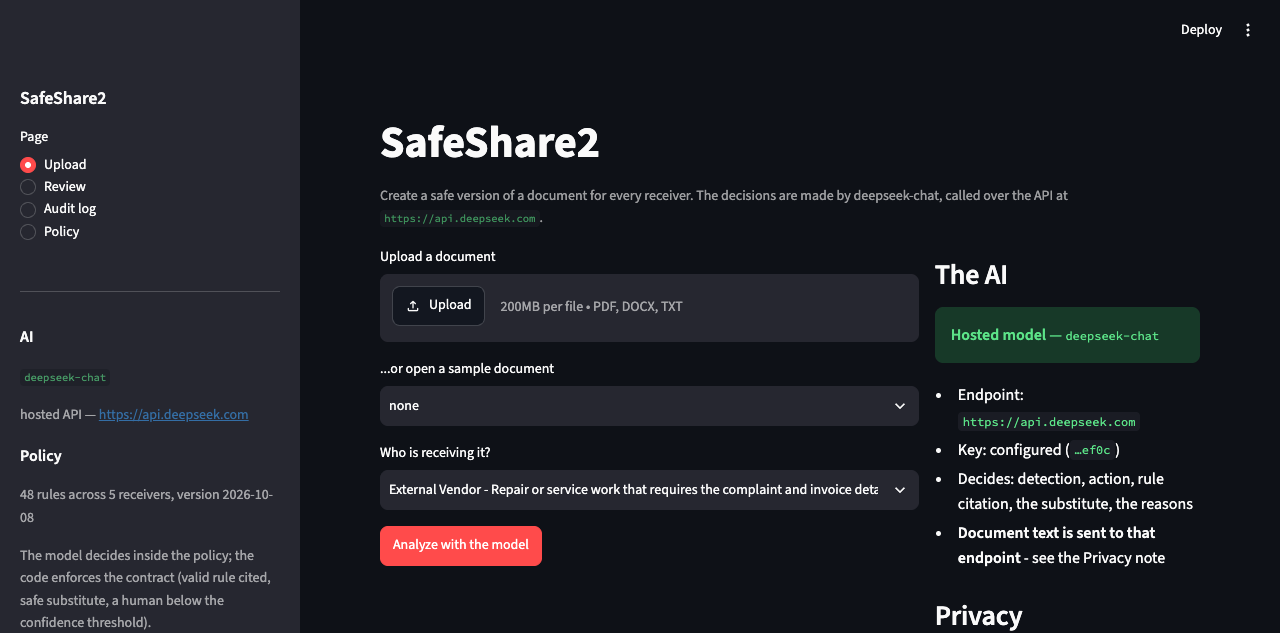
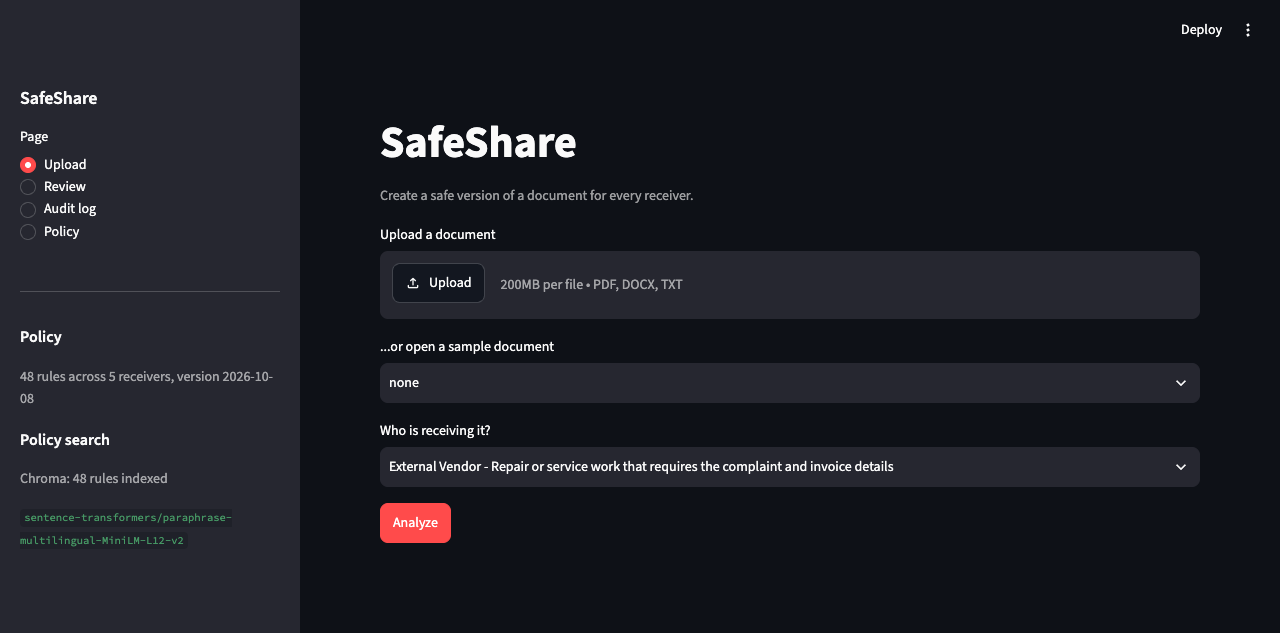
Rename to SafeShare, simplify the copy, drop the AI and Privacy panels
Three presentation changes requested for the demo:

- the product is now named SafeShare everywhere a person sees it: dashboard title,
  browser tab, sidebar, API title, help text and error messages. Lowercase
  `safeshare2` stays only where it is a folder, module or file name.
- every user-visible description is now the single line "Create a safe version of a
  document for every receiver." The old caption named the model and its endpoint, and
  the sidebar stated that the model decides inside the policy. Both are gone from the
  interface: the product reads as a product, not as a description of its machinery.
  The button is now "Analyze" rather than "Analyze with the model".
- the right-hand panel (subheadings "The AI" and "Privacy") is removed, along with the
  `model_panel()` function that fed it and the sidebar's AI block. The upload page is a
  single column.

Nothing was lost: the facts those panels carried (which model answers, what leaves the
machine, where uploads go, what the audit log keeps) are recorded in docs/AI.md under
"What the dashboard no longer shows", which is also the honest answer to an assessor
who asks.

Verified after the change: 38/38 tests pass, the dashboard renders with the new title
and caption and no panel, and the browser tab reads SafeShare.

diff --git a/app/ui_streamlit.py b/app/ui_streamlit.py
@@ -1,4 +1,4 @@
-"""SafeShare2 - the dashboard.
+"""SafeShare - the dashboard.
 
     streamlit run app/ui_streamlit.py
 
@@ -161,97 +161,36 @@ def badge(text: str, action: str) -> str:
             f"border-radius:10px;font-size:0.78rem;font-weight:600'>{html.escape(text)}</span>")
 
 
-def model_panel(state: dict) -> None:
-    """Everything a reader needs to know about the AI in this build, in one place."""
-    if not state["installed"]:
-        st.error("**The model is not reachable - analysis is unavailable.**")
-        if state.get("provider") == "api":
-            st.markdown(
-                "This build has no rules-only fallback: the AI is what decides. Put the "
-                "key for the hosted model in `.env` at the project root:")
-            st.code("DEEPSEEK_API_KEY=<your key>", language="bash")
-            st.caption("Or run the model on this machine instead: "
-                       "`SAFESHARE2_PROVIDER=local`.")
-            return
-        st.markdown(
-            "This build has no rules-only fallback: the AI is what decides. Install it "
-            "once (about 6 GB, kept in your Hugging Face cache):")
-        st.code("python -m scripts.setup_model", language="bash")
-        if state["partial"]:
-            st.warning("An interrupted download is present and will be resumed: "
-                       f"missing {', '.join(state['missing_files']) or 'weights'}.")
-        return
-
-    if state.get("provider") == "api":
-        st.success(f"**Hosted model** — `{state['model']}`")
-        st.markdown(
-            f"- Endpoint: `{state.get('base_url', '')}`\n"
-            f"- Key: configured (`{state.get('api_key_hint', '')}`)\n"
-            f"- Decides: detection, action, rule citation, the substitute, the reasons\n"
-            f"- **Document text is sent to that endpoint** - see the Privacy note")
-        return
-
-    st.success(f"**Model installed** — `{state['model']}`")
-    st.markdown(
-        f"- Device: `{state.get('device', '?')}`   dtype: `{state.get('dtype', '?')}`\n"
-        f"- On disk: {state['size_gb']:.2f} GB in `{state['cache_dir']}`\n"
-        f"- Decides: detection, action, rule citation, the substitute, the reasons\n"
-        f"- Runs locally: no document text leaves this machine")
-
-
 # ------------------------------------------------------------------ page 1: upload
 
 
 def page_upload() -> None:
-    st.title("SafeShare2")
+    st.title("SafeShare")
     lib = default_library()
     state = engine.status()
-    st.caption("Create a safe version of a document for every receiver. "
-               f"The decisions are made by {state.get('model') or engine.active_model()}"
-               + (", running locally."
-                  if state.get("provider") == "local"
-                  else f", called over the API at `{state.get('base_url', '')}`."))
+    st.caption("Create a safe version of a document for every receiver.")
 
-    left, right = st.columns([2, 1])
+    upload = st.file_uploader("Upload a document", type=["pdf", "docx", "txt"])
+    samples = sorted(SAMPLE_DIR.glob("*.docx")) + sorted(SAMPLE_DIR.glob("*.txt"))
+    sample = st.selectbox("...or open a sample document",
+                          ["none"] + [p.name for p in samples])
 
-    with left:
-        upload = st.file_uploader("Upload a document", type=["pdf", "docx", "txt"])
-        samples = sorted(SAMPLE_DIR.glob("*.docx")) + sorted(SAMPLE_DIR.glob("*.txt"))
-        sample = st.selectbox("...or open a sample document",
-                              ["none"] + [p.name for p in samples])
-
-        receiver_keys = list(lib.receivers)
-        default = "EXTERNAL_VENDOR" if "EXTERNAL_VENDOR" in receiver_keys else receiver_keys[0]
-        receiver = st.selectbox(
-            "Who is receiving it?", receiver_keys,
-            index=receiver_keys.index(default),
-            format_func=lambda key: f"{lib.receivers[key].label} - {lib.receivers[key].purpose}")
-        # The purpose is part of the prompt the model reads and it is stored with the audit
-        # record, but asking for it here duplicated the receiver (the dropdown above states
-        # it), so it comes from the receiver itself.
-        purpose = lib.receivers[receiver].purpose
-        go = st.button("Analyze with the model", type="primary",
-                       disabled=not state["installed"])
-
-    with right:
-        st.subheader("The AI")
-        model_panel(state)
-        st.subheader("Privacy")
-        st.markdown(
-            f"- Temporary files: `{config.TMP_DIR}`\n"
-            f"- Deleted after reading: **{'no' if config.KEEP_UPLOADS else 'yes'}**\n"
-            f"- Documents sent to an external API: "
-            f"**{'yes — ' + state.get('base_url', '') if state.get('provider') == 'api' else 'no'}**\n"
-            f"- Audit log: masked values, hashes, and model call metadata only\n"
-            f"- Policy version: `{lib.version}`")
+    receiver_keys = list(lib.receivers)
+    default = "EXTERNAL_VENDOR" if "EXTERNAL_VENDOR" in receiver_keys else receiver_keys[0]
+    receiver = st.selectbox(
+        "Who is receiving it?", receiver_keys,
+        index=receiver_keys.index(default),
+        format_func=lambda key: f"{lib.receivers[key].label} - {lib.receivers[key].purpose}")
+    # The purpose is stored with the audit record, so a release can be justified later.
+    purpose = lib.receivers[receiver].purpose
+    go = st.button("Analyze", type="primary", disabled=not state["installed"])
 
     if not state["installed"]:
         st.divider()
-        st.info("Set up the model, then reload this page — the Analyze button appears "
-                "when the AI is ready."
-                + (" Put `DEEPSEEK_API_KEY` in `.env`."
+        st.info("SafeShare is not configured yet — the Analyze button appears once it is."
+                + (" Add your API key to `.env` and reload this page."
                    if state.get("provider") == "api"
-                   else " Run `python -m scripts.setup_model` to install it."))
+                   else " Run `python -m scripts.setup_model`, then reload this page."))
         return
     if not go:
         return
@@ -836,33 +775,20 @@ def policy_history_tab(editor: PolicyEditor) -> None:
 
 
 def main() -> None:
-    st.set_page_config(page_title="SafeShare2", page_icon="🔒", layout="wide")
+    st.set_page_config(page_title="SafeShare", page_icon="🔒", layout="wide")
     lib = default_library()
     state = engine.status()
 
     with st.sidebar:
-        st.markdown("### SafeShare2")
+        st.markdown("### SafeShare")
         pages = ["Upload", "Review", "Audit log", "Policy"]
         page = st.radio("Page", pages,
                         index=pages.index(st.session_state.get("page", "Upload")))
         st.session_state["page"] = page
         st.divider()
-        st.markdown("**AI**")
-        if state["installed"] and state.get("provider") == "api":
-            st.caption(f"`{state['model']}`\n\nhosted API — {state.get('base_url', '')}")
-        elif state["installed"]:
-            st.caption(f"`{state['model']}`\n\n"
-                       f"device `{state.get('device', '?')}` in `{state.get('dtype', '?')}`")
-        elif state.get("provider") == "api":
-            st.caption("no API key — put `DEEPSEEK_API_KEY` in `.env`")
-        else:
-            st.caption("not installed — run `python -m scripts.setup_model`")
         st.markdown("**Policy**")
         st.caption(f"{len(lib.rules)} rules across {len(lib.receivers)} receivers, "
                    f"version {lib.version}")
-        st.caption("The model decides inside the policy; the code enforces the contract "
-                   "(valid rule cited, safe substitute, a human below the confidence "
-                   "threshold).")
         st.markdown("**Policy search**")
         try:
             index_state = get_index().status()

diff --git a/app/llm/engine.py b/app/llm/engine.py
@@ -175,7 +175,7 @@ def ensure_installed() -> dict:
 
     if state.get("provider") == "api":
         raise ModelNotInstalled(
-            f"SafeShare2 is set to use the hosted {config.API_MODEL} API at "
+            f"SafeShare is set to use the hosted {config.API_MODEL} API at "
             f"{config.API_BASE_URL}, but no key is configured. Put one in the `.env` "
             f"file at the project root:\n\n    DEEPSEEK_API_KEY=<your key>\n\n"
             f"or run the local model instead with SAFESHARE2_PROVIDER=local.",
@@ -191,7 +191,7 @@ def ensure_installed() -> dict:
         detail = "no local copy was found"
 
     raise ModelNotInstalled(
-        f"SafeShare2 needs {config.MODEL_NAME} and it is not usable on this machine: "
+        f"SafeShare needs {config.MODEL_NAME} and it is not usable on this machine: "
         f"{detail}. Install it with:\n\n    {SETUP_COMMAND}\n\n"
         f"(downloads once, about 6 GB, into {state['cache_dir']})",
         missing=state["missing_files"])

diff --git a/scripts/setup_model.py b/scripts/setup_model.py
@@ -241,7 +241,7 @@ def install_model(*, assume_yes: bool = False) -> int:
 
 
 def main() -> int:
-    parser = argparse.ArgumentParser(description="Install the SafeShare2 model")
+    parser = argparse.ArgumentParser(description="Install the SafeShare model")
     parser.add_argument("--check", action="store_true", help="report only, no download")
     parser.add_argument("--json", action="store_true", help="print status as JSON")
     parser.add_argument("--xet", action="store_true",

diff --git a/app/main.py b/app/main.py
@@ -36,7 +36,7 @@ from .policy.policy_index import PolicyIndexError, get_index
 from .review.review_queue import apply_review, build_queue, review_state
 from .rules.store import library as default_library
 
-app = FastAPI(title="SafeShare2", version="0.1.0",
+app = FastAPI(title="SafeShare", version="0.1.0",
               description="Create a safe version of a document for each receiver, with "
                           "a local language model making the decisions.")
 

diff --git a/scripts/smoke_test.py b/scripts/smoke_test.py
@@ -283,7 +283,7 @@ def run_api_check(state: dict) -> None:
 
 
 def main() -> int:
-    print("SafeShare2 smoke test")
+    print("SafeShare smoke test")
     state = engine.install_state()
     if not state["installed"]:
         print("\nThe model is not installed yet, so only the parts that do not need it "

diff --git a/app/config.py b/app/config.py
@@ -1,4 +1,4 @@
-"""SafeShare2 - settings.
+"""SafeShare - settings.
 
 The difference from the first prototype, in one line: **the model is mandatory**.
 Here there is no rules-only fallback. Every finding, every action and every

diff --git a/app/__init__.py b/app/__init__.py
@@ -1,1 +1,1 @@
-"""SafeShare2 - purpose-bound document release with a language model at the core."""
+"""SafeShare - purpose-bound document release with a language model at the core."""

diff --git a/tests/test_safeshare2.py b/tests/test_safeshare2.py
@@ -1,4 +1,4 @@
-"""SafeShare2 tests - the contract, not the model.
+"""SafeShare tests - the contract, not the model.
 
     python3 tests/test_safeshare2.py
 

diff --git a/docs/AI.md b/docs/AI.md
@@ -1,4 +1,4 @@
-# The AI in SafeShare2
+# The AI in SafeShare
 
 Everything in this file answers one question: **what is the model actually doing here?**
 
@@ -132,3 +132,31 @@ Every call is recorded with its purpose, tokens out, seconds, device and a promp
 the API exposes it at `/api/audit/model-calls/{run_id}`, and the run row carries the totals.
 That is what makes "the AI is in the loop" a checkable statement rather than a claim: you
 can see which jobs ran, how long they took and how much they produced.
+
+## What the dashboard no longer shows (and why it is still true)
+
+The upload page used to carry two panels — *The AI* and *Privacy* — that stated, on screen,
+which model answers and what happens to a document. They were removed from the interface
+on purpose: the product should be read as a product, not as a description of its own
+machinery. The facts did not change, so they are recorded here instead.
+
+**Which model answers.** `deepseek-chat` over `https://api.deepseek.com` when a key is
+configured; the local `Qwen2.5-3B-Instruct` otherwise. `SAFESHARE2_PROVIDER` decides, and
+`auto` follows whether a key is present.
+
+**What the model is given.** Detection, the action for the chosen receiver, the rule
+citation, the substitute, the reasons, and the audit summary.
+
+**What leaves the machine.** With the API provider, the document text is part of the
+prompt sent to that endpoint. With the local provider, nothing leaves this machine. The
+policy search embeds the *policy*, never a document.
+
+**Where uploaded files go.** To `.tmp/` under the project folder, deleted as soon as the
+text and structure have been read, unless `SAFESHARE_KEEP_UPLOADS=1` is set.
+
+**What the audit log stores.** Masked values (``1********9``), a hash of each value, the
+action, the rule id, the reason, and one row per model call with its purpose, token count
+and seconds. It never stores the original value, and never the released document.
+
+**Where to point someone who asks.** This file, plus `docs/SETUP.md` for the
+configuration and `README.md` for the licence table and the honest limitations.

diff --git a/README.md b/README.md
@@ -1,7 +1,6 @@
 # SafeShare
 
-**One document in. A different safe version out for each receiver decided by a language
-model, with the rule behind every change written down.**
+**Create a safe version of a document for every receiver.**
 
 SafeShare is a prototype application built around a language model. The
 model reads the document, finds the personal data, chooses the action for the chosen
@@ -277,7 +276,7 @@ model runs*) and must be rotated and removed before this goes anywhere public.
 ```bash
 cd safeshare2
 git add .
-git commit -m "SafeShare2: purpose-bound release with a local model at the core"
+git commit -m "SafeShare: purpose-bound release with a local model at the core"
 git remote add origin git@github.com:<account>/safeshare2.git
 git push -u origin main
 ```

diff --git a/docs/SETUP.md b/docs/SETUP.md
@@ -1,4 +1,4 @@
-# Setting SafeShare2 up
+# Setting SafeShare up
 
 Two audiences: the machine you are on now, and a fresh machine (or a GPU box) where this
 is cloned from GitHub. The steps are the same; the notes underneath explain the choices.
@@ -164,7 +164,7 @@ python -m scripts.setup_model --json
 machine-specific paths in code.
 
 ```bash
-git add . && git commit -m "SafeShare2: purpose-bound release with a local model at the core"
+git add . && git commit -m "SafeShare: purpose-bound release with a local model at the core"
 git remote add origin git@github.com:<account>/safeshare2.git
 git push -u origin main
 ```

diff --git a/VERSION_LOG.md b/VERSION_LOG.md
@@ -60,7 +60,7 @@
 - The dashboard renders in both modes: `Hosted model — deepseek-chat` with the privacy line
   naming the endpoint, or `Model installed — Qwen/Qwen2.5-3B-Instruct`, mps/float16, 5.75 GB.
 
-## 0.1.0 — SafeShare2, the AI-core rebuild
+## 0.1.0 — SafeShare, the AI-core rebuild
 
 A rebuild of the SafeShare prototype with the model at the centre instead of beside the
 pipeline.
